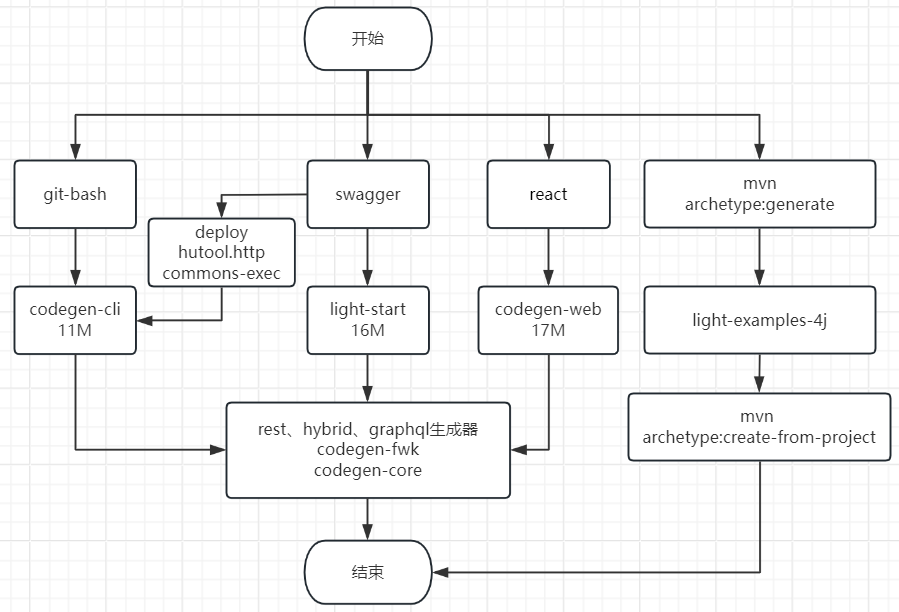
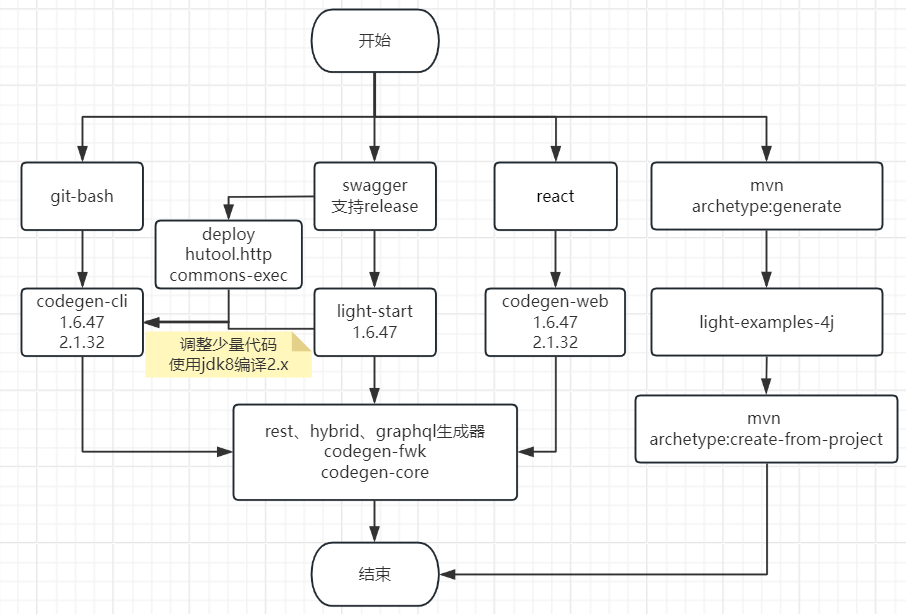
支持版本2.x项目生成

Changed region(s): [[0.0, 0.0, 0.9967, 0.9935]]

diff --git a/src/main/resources/public/index.html b/src/main/resources/public/index.html
@@ -10,9 +10,11 @@
 <script src="https://cdnjs.cloudflare.com/ajax/libs/swagger-ui/5.17.12/swagger-ui-standalone-preset.min.js"></script>
 <script>
 window.onload = function() {
+  let params = new URLSearchParams(location.search);
+  let spec = params.get('spec');
 
   const ui = SwaggerUIBundle({
-    url: "spec.yaml",
+	url: !spec ? "spec.yaml" : spec,
     validatorUrl : false,
     dom_id: '#swagger-ui',
     deepLinking: true,

diff --git a/src/main/java/com/xlongwei/start/JsonHandler.java b/src/main/java/com/xlongwei/start/JsonHandler.java
@@ -3,17 +3,22 @@ package com.xlongwei.start;
 import java.io.File;
 import java.net.URL;
 import java.nio.ByteBuffer;
+import java.nio.charset.Charset;
 import java.nio.charset.StandardCharsets;
-import java.nio.file.FileVisitOption;
-import java.nio.file.Files;
-import java.nio.file.Path;
-import java.nio.file.Paths;
 import java.util.Collections;
-import java.util.Comparator;
+import java.util.List;
 import java.util.Map;
-import java.util.Set;
 
-import org.apache.commons.codec.binary.Base64;
+import org.apache.commons.codec.net.URLCodec;
+import org.apache.commons.exec.CommandLine;
+import org.apache.commons.exec.DefaultExecutor;
+import org.apache.commons.exec.ExecuteStreamHandler;
+import org.apache.commons.exec.ExecuteWatchdog;
+import org.apache.commons.exec.Executor;
+import org.apache.commons.exec.LogOutputStream;
+import org.apache.commons.exec.OS;
+import org.apache.commons.exec.PumpStreamHandler;
+import org.apache.commons.io.FileUtils;
 import org.apache.commons.lang3.StringUtils;
 import org.slf4j.Logger;
 import org.slf4j.LoggerFactory;
@@ -30,11 +35,16 @@ import com.networknt.utility.NioUtils;
 
 import io.undertow.server.HttpHandler;
 import io.undertow.server.HttpServerExchange;
+import io.undertow.server.handlers.form.FormData.FileItem;
 import io.undertow.util.Headers;
 
 public class JsonHandler implements HttpHandler {
 	static final Logger logger = LoggerFactory.getLogger(JsonHandler.class);
 	private final ObjectMapper objectMapper;
+	private static final URLCodec base64 = new URLCodec();
+	private static long timeout = 120000;
+	private static String cliJar1 = StringUtils.defaultIfBlank(System.getProperty("codegen.jar1"), "files/codegen-cli-1.6.47.jar");
+	private static String cliJar2 = StringUtils.defaultIfBlank(System.getProperty("codegen.jar2"), "files/codegen-cli-2.1.32.jar");
 
 	public JsonHandler(ObjectMapper objectMapper) {
 		this.objectMapper = objectMapper;
@@ -42,36 +52,65 @@ public class JsonHandler implements HttpHandler {
 
 	public void handleRequest(HttpServerExchange exchange) throws Exception {
 		@SuppressWarnings("unchecked")
-		Map<String, String> map = (Map<String, String>) exchange.getAttachment(AttachmentConstants.REQUEST_BODY);
-		logger.info("{}", map);
+		Map<String, Object> map = (Map<String, Object>) exchange.getAttachment(AttachmentConstants.REQUEST_BODY);
 
 		String framework = (String) map.get("framework");
-		String config = (String) map.get("config");
-		String model = (String) map.get("model");
+		String config = getParam((String) map.get("config"),map.get("configFile"));
+		String model = getParam((String) map.get("model"),map.get("modelFile"));
+		String release = StringUtils.trimToEmpty((String) map.get("release"));
 		String message = "unknown";
 
-		FrameworkRegistry registry = FrameworkRegistry.getInstance();
-		Set<String> frameworks = registry.getFrameworks();
-		if (!frameworks.contains(framework)) {
-			message = "framework不支持，合法值为：" + StringUtils.join(frameworks, ',');
-		} else {
-			// 这里有三种实现方式：1，参考codegen-cli的Cli、codegen-web的CodegenSingleHandler；2，执行shell调用codegen-cli包；3，执行rest调用codegen-web服务
-			// 这里选择方式1，方式2和3仅输出命令即可，需要的jar包可以执行sh cli-web.sh jars获得
-			String cliJar = "target/codegen-cli-1.6.47.jar";
-			String output = HashUtil.generateUUID();
-			String zipFile = "target/" + output + ".zip";
+		// 三种方式：1，参考codegen-cli的Cli、codegen-web的CodegenSingleHandler；2，执行shell调用codegen-cli包；3，执行rest调用codegen-web服务
+		String cliJar = release.startsWith("2") ? cliJar2 : cliJar1;
+		String output = HashUtil.generateUUID();
+		String zip = "files/" + output + ".zip";
+		File configFile = new File(output + ".config.json"), modelFile = new File(output + ".yaml");
+		File outputFile = new File(output), zipFile = new File(zip);
 
-			// 输出方式2的命令，方式3参考cli-web.sh：java -jar target/codegen-web-1.6.47.jar
-			if (Utils.isUrl(model) && Utils.isUrl(config)) {
-				logger.info("\njava -jar {} -f {} -c {} -m {} -o {}", cliJar, framework, config, model, output);
+		try {
+			if (StringUtils.isNotBlank(config) && !config.startsWith("http")) {
+				if (!isJson(config)) {
+					config = base64.decode(config);
+					if (!isJson(config)) {
+						configFile = new File(output + ".config.yaml");
+					}
+				}
+				FileUtils.writeStringToFile(configFile, config, StandardCharsets.UTF_8);
 			}
-
-			try {
-				Generator generator = registry.getGenerator(framework);
+			if (StringUtils.isNotBlank(model) && !model.startsWith("http")) {
+				if (isJson(model)) {
+					// json格式可以不用base64转码
+					modelFile = new File(output + ".json");
+				} else {
+					model = base64.decode(model);
+					if (isJson(model)) {
+						modelFile = new File(output + ".json");
+					} else if (model.startsWith("schema")) {
+						modelFile = new File(output + ".grqphqls");
+					} else {
+						modelFile = new File(output + ".yaml");
+					}
+				}
+				FileUtils.writeStringToFile(modelFile, model, StandardCharsets.UTF_8);
+			}
+			if(release.startsWith("2")) {
+				//处理非网址的情形
+				if(configFile.exists()) config = configFile.getName();
+				if(modelFile.exists()) model = modelFile.getName();
+				//生成项目，打包，删除目录
+				if (StringUtils.isNoneBlank(framework, config)) {
+					String shell = String.format("java -jar %s -f %s -c %s -m %s -o %s", cliJar, framework, config, model, output);
+					new ShellTask(shell, timeout).execute();
+					new ShellTask("jar cf " + zip + " " + output, timeout).execute();
+					System.out.println(output + "=" + outputFile.exists() + " " + zip + "=" + zipFile.exists());
+					message = zipFile.exists() ? zip : "生成失败";
+				} else if (modelFile.exists()) {
+					modelFile.renameTo(new File("files/" + modelFile.getName()));
+					message = "?spec=/files/" + modelFile.getName();
+				}
+			}else {
 				Object anyModel = null;
-				// model can be empty in some cases.
 				if (StringUtils.isNotBlank(model)) {
-					// check if model is json or not before loading.
 					if (Utils.isUrl(model)) {
 						if (model.endsWith("json")) {
 							anyModel = JsonIterator.deserialize(Utils.urlToByteArray(new URL(model)));
@@ -79,10 +118,7 @@ public class JsonHandler implements HttpHandler {
 							anyModel = new String(Utils.urlToByteArray(new URL(model)), StandardCharsets.UTF_8);
 						}
 					} else {
-						if (!(model.startsWith("{") || model.startsWith("["))) {
-							model = org.apache.commons.codec.binary.StringUtils.newStringUtf8(Base64.decodeBase64(model));
-						}
-						if (model.startsWith("{") || model.startsWith("[")) {
+						if (isJson(model)) {
 							anyModel = JsonIterator.deserialize(model);
 						} else {
 							anyModel = model;
@@ -97,36 +133,95 @@ public class JsonHandler implements HttpHandler {
 					} else {
 						anyConfig = JsonIterator.deserialize(config);
 					}
+					Generator generator = FrameworkRegistry.getInstance().getGenerator(framework);
+					generator.generate(output, anyModel, anyConfig);
+					File file = new File(output);
+					if (!file.exists()) {
+						message = "生成失败：" + output + "，请检查model配置";
+						logger.warn(message);
+					} else {
+						logger.info(zip);
+						NioUtils.create(zip, output);
+						message = zip;
+					}
+				}else if(modelFile.exists()) {
+					modelFile.renameTo(new File("files/" + modelFile.getName()));
+					message = "?spec=/files/" + modelFile.getName();
 				}
-
-				generator.generate(output, anyModel, anyConfig);
-				File file = new File(output);
-				if (!file.exists()) {
-					message = "生成失败：" + output + "，请检查model配置";
-					logger.warn(message);
-				} else {
-					logger.info(zipFile);
-
-					NioUtils.create(zipFile, output);
-					// 返回下载链接，不用codegen-web直接响应字节
-//					exchange.getResponseHeaders().add(new HttpString("Content-Type"), "application/zip")
-//							.add(new HttpString("Content-Disposition"), "attachment; filename=" + file.getName());
-//					exchange.getResponseSender().send(NioUtils.toByteBuffer(file));
-					message = zipFile;
-				}
-			} catch (Exception e) {
-				message = e.getMessage();
-				logger.warn(message);
 			}
-			// delete the project folder. 取消.peek(System.out::println)
-			Files.walk(Paths.get(output), FileVisitOption.FOLLOW_LINKS).sorted(Comparator.reverseOrder())
-					.map(Path::toFile).forEach(File::delete);
+		} catch (Exception e) {
+			message = e.getMessage();
+			logger.warn(message);
 		}
-
-		if (exchange.isComplete())
-			return;
+//		FileUtils.deleteQuietly(outputFile);
+		FileUtils.deleteQuietly(configFile);
+		FileUtils.deleteQuietly(modelFile);
 		exchange.getResponseHeaders().put(Headers.CONTENT_TYPE, "application/json");
 		exchange.getResponseSender()
 				.send(ByteBuffer.wrap(objectMapper.writeValueAsBytes(Collections.singletonMap("message", message))));
 	}
+	
+	private String getParam(String str, Object file) throws Exception {
+		if (file != null && file instanceof FileItem) {
+			FileItem upload = (FileItem) file;
+			str = NioUtils.toString(upload.getInputStream()).trim();
+			str = isJson(str) ? str : base64.encode(str);
+		}
+		return str;
+	}
+	
+	private boolean isJson(String config) {
+		return config.startsWith("{") || config.startsWith("[");
+	}
+	
+    public static class ShellTask {
+        private String shell;
+        private long timeout;
+        private CommandLine command;
+        private Charset gbk = Charset.forName("GBK");
+        public List<String> outputs = null;
+
+        public ShellTask(String shell, long timeout) {
+            this.shell = shell;
+            this.timeout = timeout;
+            this.command = CommandLine.parse(shell);
+        }
+
+        public void execute() {
+            try {
+                System.out.println(shell);
+                Executor exe = new DefaultExecutor();
+
+                ExecuteWatchdog watchdog = new ExecuteWatchdog(timeout);
+                exe.setWatchdog(watchdog);
+
+                LogOutputStream outAndErr = new LogOutputStream() {
+                    @Override
+                    protected void processLine(String line, int logLevel) {
+                        String output = new String(line.getBytes(),
+                                OS.isFamilyWindows() ? gbk : StandardCharsets.UTF_8);
+                        System.out.println(output);
+                        if (outputs != null) {
+                            outputs.add(output);
+                        }
+                    }
+                };
+                ExecuteStreamHandler streamHandler = new PumpStreamHandler(outAndErr);
+                exe.setStreamHandler(streamHandler);
+
+                long s = System.currentTimeMillis();
+                int exitvalue = exe.execute(command);
+                streamHandler.stop();
+                outAndErr.close();
+                if (exe.isFailure(exitvalue) && watchdog.killedProcess()) {
+                    System.out.println("timeout and killed by watchdog");
+                } else {
+                    System.out.printf("exec succeeded millis= %s ms\n", (System.currentTimeMillis() - s));
+                }
+            } catch (Exception e) {
+                System.out.println(e.getMessage());
+            }
+        }
+
+    }
 }

diff --git a/src/main/java/com/networknt/body/BodyConverter.java b/src/main/java/com/networknt/body/BodyConverter.java
@@ -1,0 +1,47 @@
+/*
+ * Copyright (c) 2016 Network New Technologies Inc.
+ *
+ * Licensed under the Apache License, Version 2.0 (the "License");
+ * you may not use this file except in compliance with the License.
+ * You may obtain a copy of the License at
+ *
+ *      http://www.apache.org/licenses/LICENSE-2.0
+ *
+ * Unless required by applicable law or agreed to in writing, software
+ * distributed under the License is distributed on an "AS IS" BASIS,
+ * WITHOUT WARRANTIES OR CONDITIONS OF ANY KIND, either express or implied.
+ * See the License for the specific language governing permissions and
+ * limitations under the License.
+ */
+
+package com.networknt.body;
+
+import io.undertow.server.handlers.form.FormData;
+import io.undertow.server.handlers.form.FormData.FormValue;
+
+import java.util.*;
+
+/**
+ * To convert the form into a map, we first convert the formValue into a String and then put into the map.
+ * For the same form key, there might be multiple form values, we handle it differently based on the size.
+ */
+public class BodyConverter {
+    static Map<String, Object> convert(FormData data) {
+        Map<String, Object> map = new HashMap<>();
+        for (String key : data) {
+            if (data.get(key).size() == 1) {
+            	FormValue formValue = data.getFirst(key);
+                Object value = formValue.isFileItem() ? formValue.getFileItem() : formValue.getValue();
+                map.put(key, value);
+            } else if (data.get(key).size() > 1) {
+                List<Object> list = new ArrayList<>();
+                for (FormData.FormValue value : data.get(key)) {
+                    list.add(value.isFileItem() ? value.getFileItem() : value.getValue());
+                }
+                map.put(key, list);
+            }
+            // ignore size == 0
+        }
+        return map;
+    }
+}

diff --git a/src/main/java/com/xlongwei/start/WebServerHandlerProvider.java b/src/main/java/com/xlongwei/start/WebServerHandlerProvider.java
@@ -15,10 +15,10 @@ import io.undertow.server.handlers.resource.FileResourceManager;
 public class WebServerHandlerProvider implements HandlerProvider {
 
 	public HttpHandler getHandler() {
-		return path().addPrefixPath("/api/json", new JsonHandler(Config.getInstance().getMapper())).addPrefixPath("/",
+		return path().addPrefixPath("/codegen", new JsonHandler(Config.getInstance().getMapper())).addPrefixPath("/",
 				resource(new ClassPathResourceManager(WebServerHandlerProvider.class.getClassLoader(), "public")))
-				.addPrefixPath("/target",
-						resource(new FileResourceManager(new File("target"))).setDirectoryListingEnabled(true));
+				.addPrefixPath("/files",
+						resource(new FileResourceManager(new File("files"))).setDirectoryListingEnabled(true));
 	}
 
 }

diff --git a/README.md b/README.md
@@ -16,6 +16,7 @@
 2. mvn:archetype也可以生成项目，但light-codegen更灵活一些，[config.json](https://doc.networknt.com/tool/light-codegen/openapi-generator/#config)和[openapi.yaml](https://github.com/networknt/model-config)自定义更丰富。
 3. light-start最初也是通过骨架api-simple-web-archetype生成，加上swagger-ui后基本能实现功能因此没有再写ajax请求页面。
 4. swagger-ui请求handler通过shell调用codegen-cli命令行工具是个不错的想法，使用solon-api或hutool.http会更轻量级，考虑加到[deploy](https://gitee.com/xlongwei/deploy)上。
-5. 上面第4点已经实现，并且功能还得到了增强：支持配置文件上传，支持2.x版本（需Java11，我服务器上只有Java8，所以暂不支持），[在线生成](http://115.28.229.158:9881/specui.html)。
+5. 上面第4点已经实现，并且功能还得到了增强：支持配置文件上传，支持2.x版本，[在线生成](http://115.28.229.158:9881/specui.html)。
+6. 参考上面，支持配置文件上传，支持2.x版本（使用微调过的 [codegen-cli-2.1.32.jar](https://github.com/xia188/light-codegen/tree/release.jdk8) 从而支持jdk8）
 
 ![light-start](/light-start.PNG "light-start")
